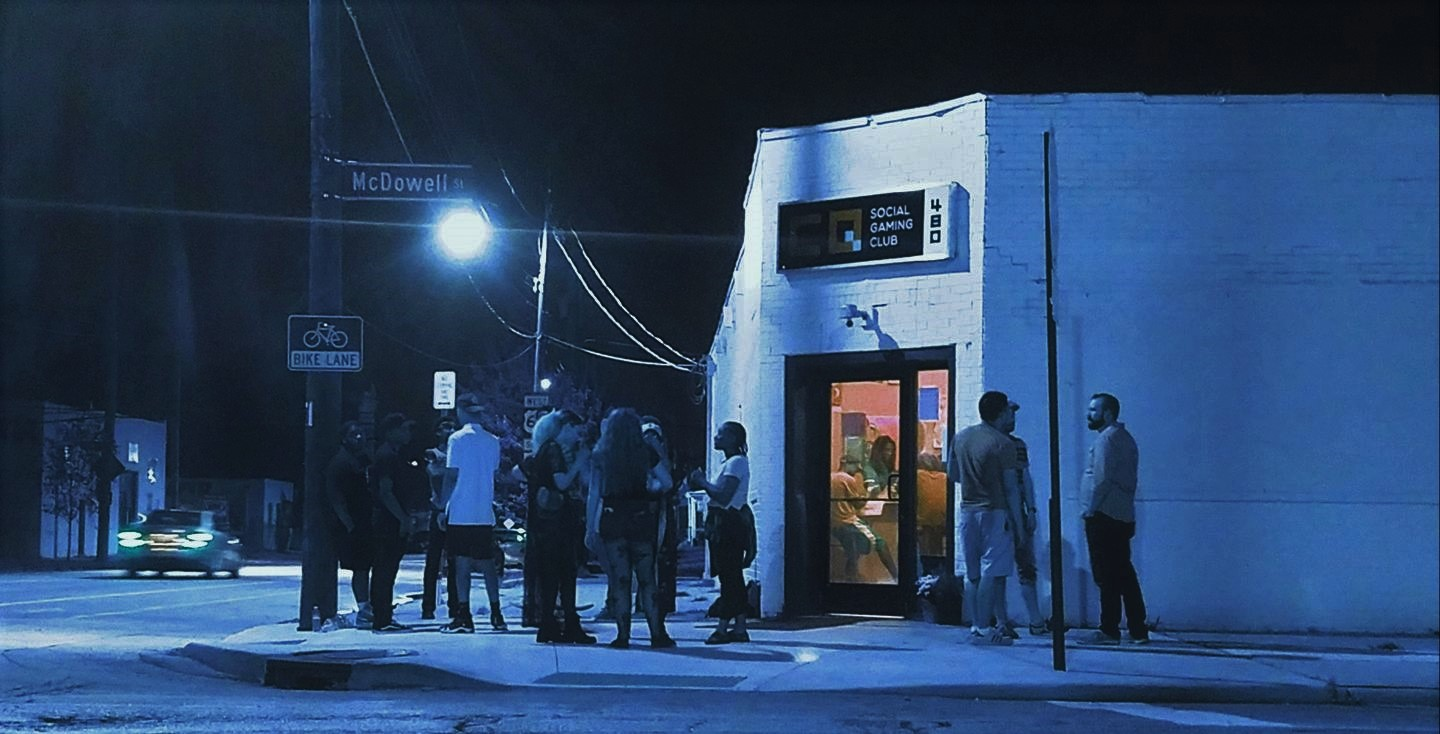
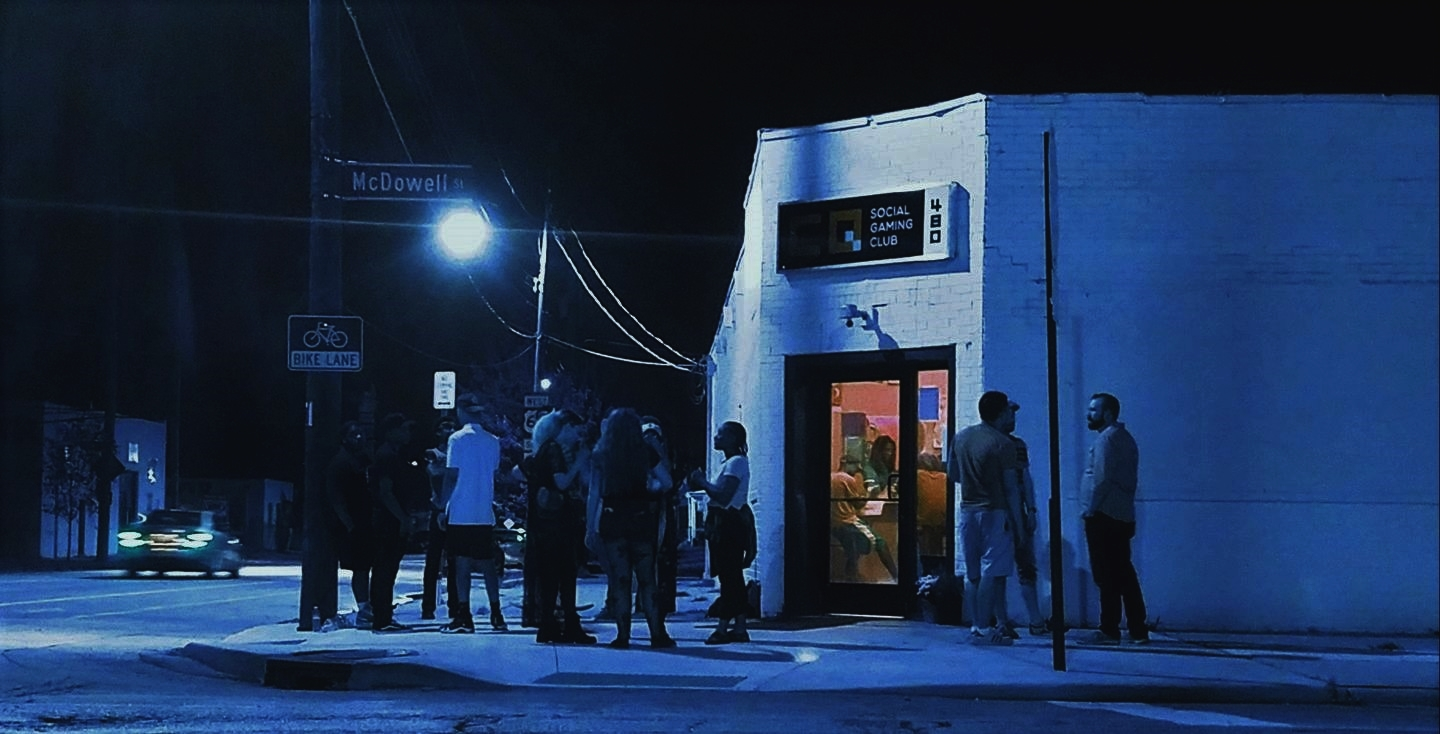
Fixed many elements in preparation for membership service to be added

diff --git a/css/creative.css b/css/creative.css
@@ -12,12 +12,13 @@ body {
   font-family: 'PT+Sans', 'Helvetica Neue', Arial, sans-serif;
 }
 hr {
-  border-color: #ee322c;
+  border-color: #eb3812;
   border-width: 3px;
   max-width: 50px;
+  box-shadow: 1px 1px 1px black;
 }
 hr.light {
-  border-color: #ee322c;
+  border-color: #eb3812;
 }
 a {
   -webkit-transition: all 0.35s;
@@ -48,7 +49,7 @@ p {
 }
 
 .bg-secondary{
-  background-color: #002633;
+  background-color: #001319;
   color: #f9f9f9;
 }
 
@@ -61,7 +62,7 @@ p {
   color: white;
 }
 .text-faded {
-  color: #002633;
+  color: #001319;
 }
 section {
   padding: 75px 0;
@@ -175,7 +176,7 @@ header {
   background-size: cover;
   -o-background-size: cover;
   background-position: center;
-  background-image: url('../img/header.jpg');
+  background-image: url('../img/header1.jpg');
   text-align: center;
   color: white;
 }
@@ -184,7 +185,7 @@ header {
         text-align: center;
         padding: 75px 15px 100px;
         width: 100%;
-        height: 75%;
+        height: 65%;
     }
 
 header .header-content .header-content-inner h1 {
@@ -193,7 +194,7 @@ header .header-content .header-content-inner h1 {
   margin-top: 25px;
   margin-bottom: 0;
   font-size: 35px;
-  text-shadow: 2px 2px black;
+  text-shadow: 3px 3px 1px black;
 }
 
 header .header-content .header-content-inner h3 {
@@ -202,7 +203,7 @@ header .header-content .header-content-inner h3 {
   margin-top: 0;
   margin-bottom: 0;
   font-size: 35px;
-  text-shadow: 2px 2px black;
+  text-shadow: 3px 3px 1px black;
 }
 
 header .header-content .header-content-inner h2 {
@@ -212,7 +213,7 @@ header .header-content .header-content-inner h2 {
   color: #ee622c;
   padding-bottom: 10px;
   font-weight: 700;
-  text-shadow: 2px 2px black;
+  text-shadow: 3px 3px 1px black;
 }
 
 header .header-content .header-content-inner hr {
@@ -223,6 +224,7 @@ header .header-content .header-content-inner p {
   color: #f9f9f9;
   font-size: 16px;
   margin-bottom: 50px;
+  text-shadow: 2px 2px black;
 }
 @media (min-width: 768px) {
   header {
@@ -266,7 +268,7 @@ header .header-content .header-content-inner p {
   margin: auto;
   height: 100%;
   width: 100%;
-  padding-bottom: 5px;
+  margin-bottom: 5px;
 }
 
 .service-box #overlay-content {
@@ -347,11 +349,12 @@ header .header-content .header-content-inner p {
 }
 .btn-default {
   color: #f9f9f9;
-  background-color: #002633;
+  background-color: #001319;
   border-color: #5bc0de;
   -webkit-transition: all 0.35s;
   -moz-transition: all 0.35s;
   transition: all 0.35s;
+  box-shadow: 5px 5px 5px black;
 }
 .btn-default:hover,
 .btn-default:focus,
@@ -395,11 +398,12 @@ fieldset[disabled] .btn-default.active {
 }
 .btn-primary {
   color: white;
-  background-color: #002633;
+  background-color: #001319;
   border-color: #5bc0de;
   -webkit-transition: all 0.35s;
   -moz-transition: all 0.35s;
   transition: all 0.35s;
+   box-shadow: 5px 5px 5px black;
 }
 .btn-primary:hover,
 .btn-primary:focus,
@@ -476,28 +480,13 @@ body {
         display: block;
         overflow: hidden;
         margin: auto;
-        height: 500px;
+        height: 450px;
         width: 100%;
         box-shadow: 10px 10px 10px black;
 }
-
-@media (min-width: 768px){
+@media (min-width: 1300px) {
     .iframe-responsive {
-        display: block;
-        overflow: hidden;
-        margin: auto;
-        height: 400px;
-        width: 100%;
-    }
-}
-
-@media (min-width: 1300px){
-    .iframe-responsive {
-        display: block;
-        overflow: hidden;
-        margin: auto;
-        height: 600px;
-        width: 100%;
+        height: 650px;
     }
 }
 

diff --git a/index.html b/index.html
@@ -45,7 +45,7 @@
                     <span class="sr-only">Toggle navigation</span> Menu <i class="fa fa-bars"></i>
                 </button>
                 <a href="index.html#page-top"><img src="img/logo/logo_sm.png" class="img-responsive" alt="CQ Logo"></a>
-                <a class="navbar-brand page-scroll" href="#page-top">Close Quarters</a>
+                <a class="navbar-brand hidden-xs page-scroll" href="index.html#page-top">Close Quarters</a>
             </div>
 
             <!-- Collect the nav links, forms, and other content for toggling -->
@@ -61,7 +61,7 @@
                         <a class="page-scroll" href="#portfolio">The Venue</a>
                     </li>
 					<li>
-                        <a class="page-scroll" href="https://docs.google.com/forms/d/e/1FAIpQLSc7cI6wAgR__TIcvmk_opfve0bFeYtIL_YL6TzPWqonz6lWRg/viewform">Memberships</a>
+                        <a class="page-scroll" href="memberships.html">Memberships</a>
                     </li>
                     <li>
                         <a class="page-scroll" href="events.html">Events</a>
@@ -255,7 +255,6 @@
 
     <!-- Theme JavaScript -->
     <script src="js/creative.min.js"></script>
-    <script src="js/specialimages.js"></script>
 
 </body>
 

diff --git a/memberships.html b/memberships.html
@@ -75,11 +75,8 @@
     <header id="Events">
         <div class="header-content">
             <div class="header-content-inner">
-                <h2 style="text-shadow: 2px 2px black">Close Quarters Events</h2>
-                <div class="hidden-xs">
-                    <iframe src="https://calendar.google.com/calendar/embed?showTitle=0&amp;showPrint=0&amp;showTabs=0&amp;height=600&amp;wkst=1&amp;bgcolor=%23ffffff&amp;src=k78uud7ev1s42skv8h2188a4lg%40group.calendar.google.com&amp;color=%235229A3&amp;ctz=America%2FNew_York" class="iframe-responsive"></iframe>
-                </div>
-                <div class="visible-xs">
+                <h2 style="text-shadow: 2px 2px black">Close Quarters Membership Portal</h2>
+                <div>
                     <iframe src="https://calendar.google.com/calendar/embed?showTitle=0&amp;showPrint=0&amp;showTabs=0&amp;mode=AGENDA&amp;height=600&amp;wkst=1&amp;bgcolor=%23FFFFFF&amp;src=k78uud7ev1s42skv8h2188a4lg%40group.calendar.google.com&amp;color=%235229A3&amp;ctz=America%2FNew_York" class="iframe-responsive"></iframe>
                 </div>
             </div>
